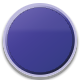
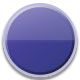
Indigo's buttons (the game page's and Settings' tiles, the wide buttons, Home's round buttons and the HOME Menu's) get the menu's Wii shine on their glass, lit down to a soft line across the middle, from its own generator, while its frames and panels stay as they were (Indigo's pictures regenerated;

Changed region(s): [[0.075, 0.075, 0.95, 0.5]]

diff --git a/tools/make_indigo_theme.py b/tools/make_indigo_theme.py
@@ -207,7 +207,7 @@ def rainbow(angle):
 
 def glass(w, h, margin, radius, *, body_tl, body_br, over=False, alpha=0.94, bevel=5.0, glow=GOLD,
           ring=None, ring_width=0.0, lit_width=2.6, rainbow_edge=0.75, sheen=0.13, shadow=0.55, bands=None, canvas=None,
-          reflection=0.07):
+          reflection=0.07, button_gloss=0.0):
     """A bevelled glass shape `w` x `h` at (`margin`, `margin`), in a canvas
     with that margin all round (rounded up to 4 for the Wii's textures, or
     `canvas` (w, h)):
@@ -220,7 +220,10 @@ def glass(w, h, margin, radius, *, body_tl, body_br, over=False, alpha=0.94, bev
     - lit (`over`): the `glow` colour's halo around it and a gold ring
       `lit_width` wide;
     - `ring`: a ring of that colour (`ring_width`) whether lit or not;
-    - `bands`: a function (u, v, y) -> (rgb, k) mixing a band's colour in.
+    - `bands`: a function (u, v, y) -> (rgb, k) mixing a band's colour in;
+    - `button_gloss`: for things that are pressed, the menu's Wii button
+      shine (src/art/skinpaint.cpp's ButtonGloss): the face's upper half lit
+      down to a soft line across the middle, where the light drops away.
     """
     cw = (w + 2 * margin + 3) & ~3 if canvas is None else canvas[0]
     ch = (h + 2 * margin + 3) & ~3 if canvas is None else canvas[1]
@@ -269,6 +272,12 @@ def glass(w, h, margin, radius, *, body_tl, body_br, over=False, alpha=0.94, bev
             if d >= bevel and reflection > 0:
                 face_v = (py - y0 - bevel) / max(1.0, h - 2 * bevel)
                 rgb = mix(rgb, (255, 255, 255), reflection * (1.0 - smooth((face_v - 0.30) / 0.10)))
+            if d >= 1.0 and button_gloss > 0:
+                face_v = (py - y0) / h
+                if face_v < 0.5:
+                    rgb = mix(rgb, (255, 255, 255), button_gloss * (1.0 - 0.45 * face_v / 0.5))
+                elif face_v < 0.54:
+                    rgb = mix(rgb, (255, 255, 255), button_gloss * 0.2 * (1.0 - (face_v - 0.5) / 0.04))
             a = alpha
             # The thin light rim just inside the edge.
             if 0.8 < d < 2.2:
@@ -510,9 +519,13 @@ def main():
 
     panel = dict(body_tl=(58, 40, 136), body_br=(26, 42, 118), alpha=0.95, bevel=4.0, reflection=0.03)
     tile = dict(body_tl=(70, 54, 160), body_br=(30, 40, 116), alpha=0.92, bevel=5.0)
-    primary = dict(tile, body_tl=(96, 62, 178), body_br=(48, 38, 128))
-    silver = dict(body_tl=(112, 108, 150), body_br=(56, 52, 96), alpha=0.97, bevel=4.0, rainbow_edge=0.35)
-    amber = dict(GOLD_GLASS, alpha=1.0, bevel=4.0)
+    # What is pressed gets the menu's Wii button shine; frames that hold a
+    # picture (Home's tiles and cover cards) and panels stay as they were.
+    press = dict(reflection=0.0, button_gloss=0.30)
+    button = dict(tile, **press)
+    primary = dict(button, body_tl=(96, 62, 178), body_br=(48, 38, 128))
+    silver = dict(body_tl=(112, 108, 150), body_br=(56, 52, 96), alpha=0.97, bevel=4.0, rainbow_edge=0.35, **press)
+    amber = dict(GOLD_GLASS, alpha=1.0, bevel=4.0, **press)
     pictures = {
         "background": lambda: background(640),
         "background_wide": lambda: background(856),
@@ -525,8 +538,8 @@ def main():
         # Only a rim of it shows round the cover, so its ring is wide.
         "cover_tile_over": lambda: glass(84, 116, 5, 8, over=True, canvas=(96, 128), lit_width=4.4,
                                          **dict(tile, bevel=6.0, **GOLD_GLASS)),
-        "tile9": lambda: glass(48, 48, 8, 10, **tile),
-        "tile9_over": lambda: glass(48, 48, 8, 10, over=True, **dict(tile, **GOLD_GLASS)),
+        "tile9": lambda: glass(48, 48, 8, 10, **button),
+        "tile9_over": lambda: glass(48, 48, 8, 10, over=True, **dict(button, **GOLD_GLASS)),
         "tile9_primary": lambda: glass(48, 48, 8, 10, ring=GOLD_DEEP, ring_width=1.8, **primary),
         "tile9_primary_over": lambda: glass(48, 48, 8, 10, over=True, **dict(primary, **GOLD_GLASS_PRIMARY)),
         "pill": lambda: glass(244, 52, 4, 26, shadow=0.45, **silver),
@@ -535,13 +548,13 @@ def main():
                                       **dict(primary, alpha=0.97)),
         "pill_primary_over": lambda: glass(244, 52, 4, 26, over=True, shadow=0.45, **amber),
         "home_button": lambda: glass(248, 72, 8, 36, body_tl=(236, 236, 246), body_br=(160, 160, 182),
-                                     alpha=1.0, bevel=5.0, rainbow_edge=0.3, sheen=0.2),
+                                     alpha=1.0, bevel=5.0, rainbow_edge=0.3, sheen=0.2, **press),
         "home_button_over": lambda: glass(248, 72, 8, 36, over=True, body_tl=(255, 226, 112),
                                           body_br=(226, 160, 28), alpha=1.0, bevel=5.0, rainbow_edge=0.0,
-                                          sheen=0.2, glow=(255, 214, 90)),
+                                          sheen=0.2, glow=(255, 214, 90), **press),
         "round_button": lambda: glass(74, 74, 3, 37, canvas=(80, 80), shadow=0.4, ring=(190, 186, 222),
-                                      ring_width=2.2, **tile),
-        "round_button_over": lambda: glass(74, 74, 3, 37, canvas=(80, 80), over=True, shadow=0.4, **tile),
+                                      ring_width=2.2, **button),
+        "round_button_over": lambda: glass(74, 74, 3, 37, canvas=(80, 80), over=True, shadow=0.4, **button),
         "panel_game": lambda: glass(572, 232, 4, 12, **panel),
         "panel_settings": lambda: glass(572, 276, 4, 12, **panel),
         "banner_stripes": banner_stripes,
